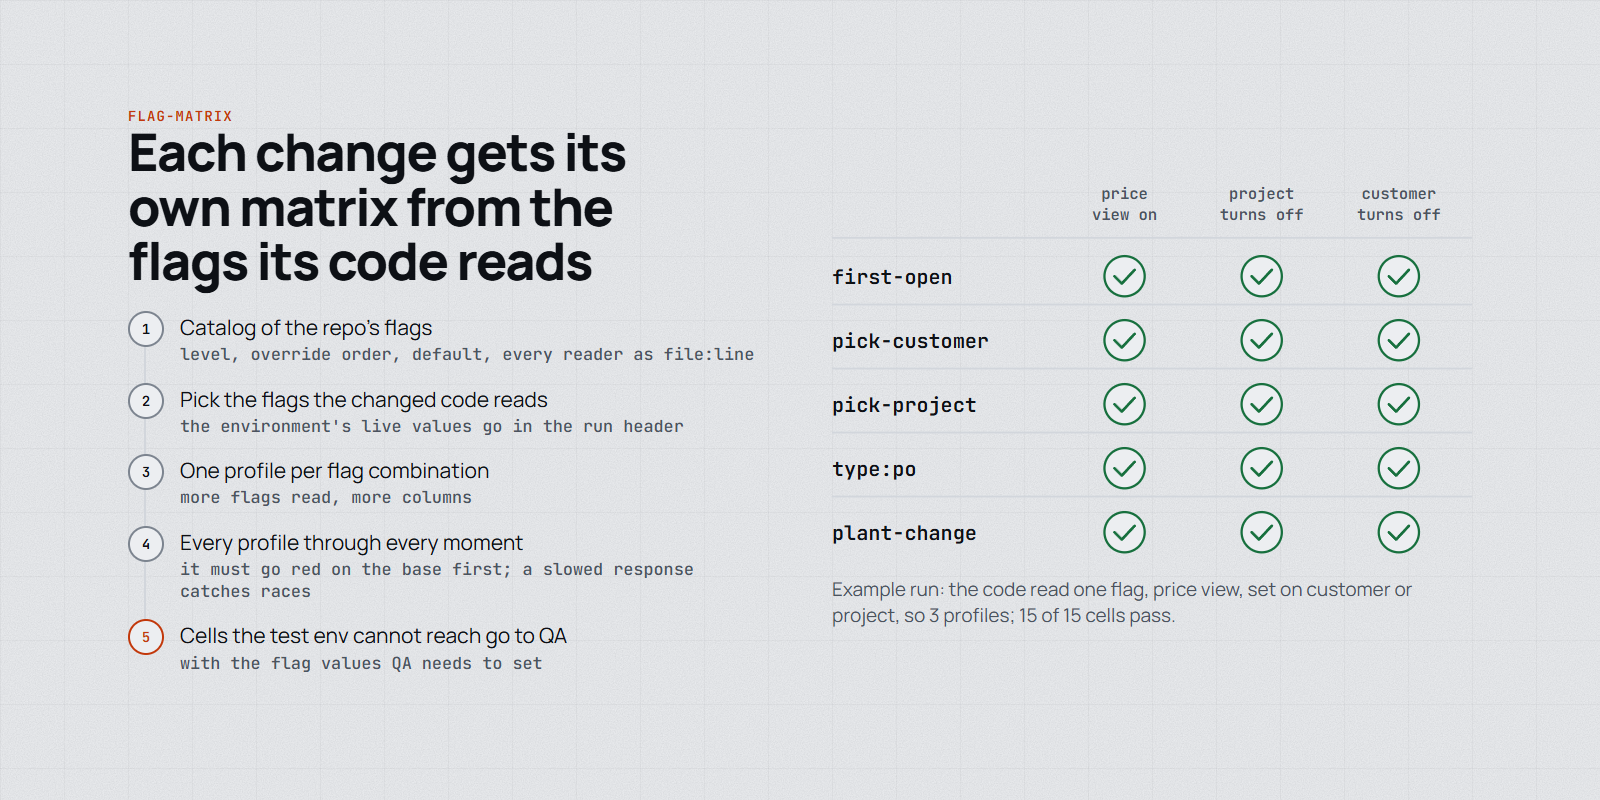
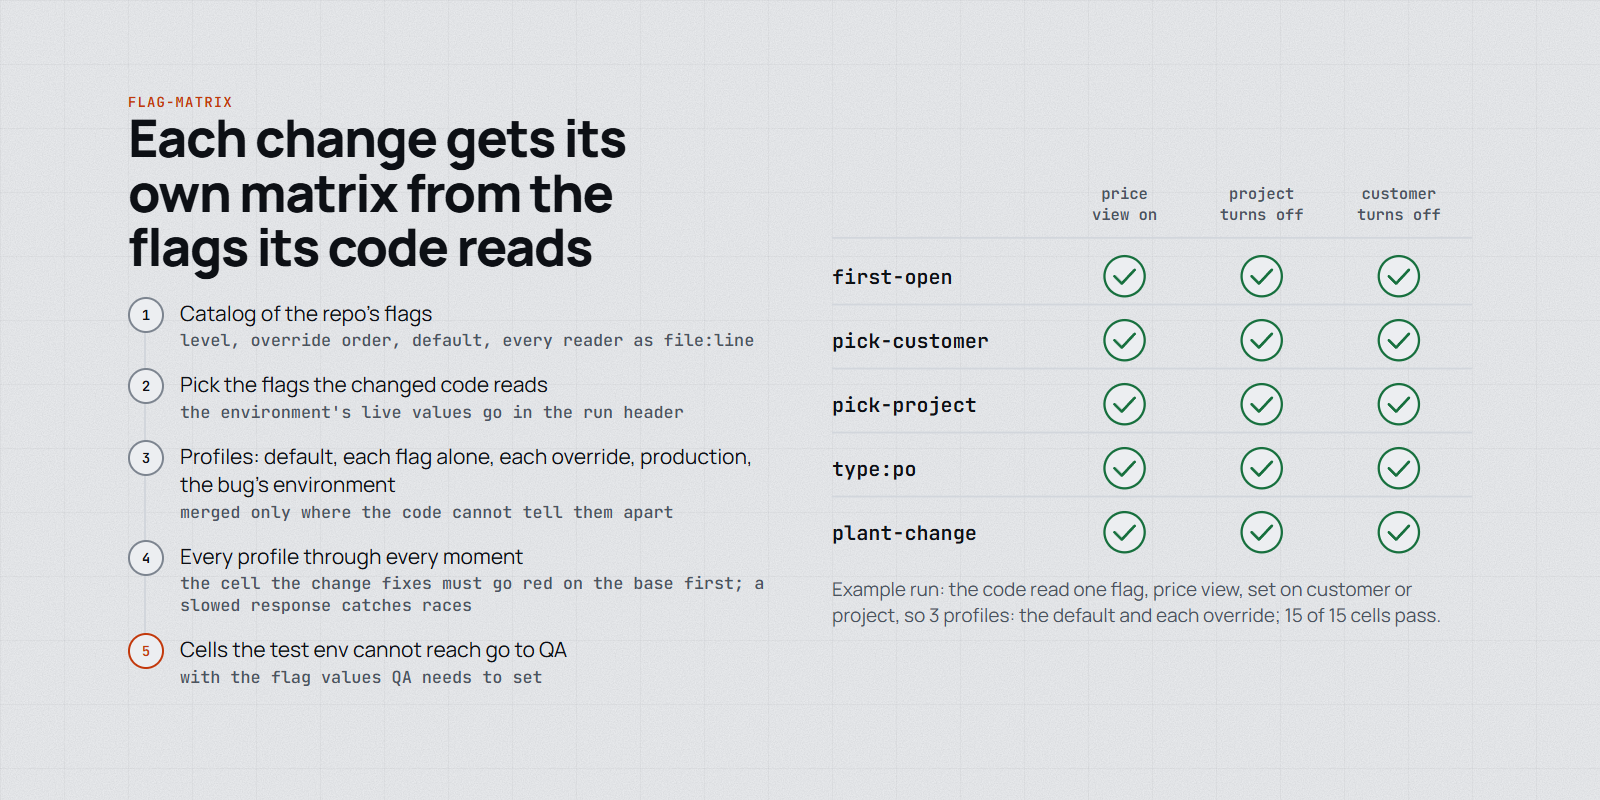
docs: align README figures with what the skills actually do
Cross-vendor review found the figures overstated the skills: the High
tier default, reviewer roster, fix-round scope and flag-matrix profiles.

Changed region(s): [[0.0625, 0.125, 0.4688, 0.875], [0.625, 0.75, 0.9062, 0.7812]]

diff --git a/docs/figures/readme.src.html b/docs/figures/readme.src.html
@@ -279,8 +279,8 @@
     <div class="split split--even split--review">
       <div>
         <p class="slide__label">risk-code-review</p>
-        <h2 class="slide__heading">Risk sets how deep the review goes, and another AI vendor does it</h2>
-        <p class="slide__body risk-line"><b>High risk</b> = the paths your repo marks high: saving data, money, config, permissions. The reviewer reads the full diff, runs the tests and answers, with file:line:</p>
+        <h2 class="slide__heading">Risk sets how deep the review goes and who reviews</h2>
+        <p class="slide__body risk-line"><b>High risk</b> = the paths your repo's tier list marks high; with no list, code that saves data, moves money, reads flags or tenant, customer or user settings, or checks permissions. The reviewer reads the full diff, runs the tests and answers, with file:line:</p>
         <ul class="points">
           <li><b>Where else</b> does the patched pattern live? Every caller and copy</li>
           <li><b>Odd API values:</b> 1900 dates, 0/0 coordinates, null for "none"</li>
@@ -292,9 +292,9 @@
         <div class="chat">
           <p class="chat__you"><b>review</b>PR #142 · High risk (order quantities)</p>
           <dl class="chat__kv">
-            <dt>writer</dt><dd>Claude or GPT</dd>
-            <dt>reviewer</dt><dd>the other one, never the writer's vendor</dd>
-            <dt>reads</dt><dd>the issue, the reporter's video, the final code</dd>
+            <dt>writer</dt><dd>Claude</dd>
+            <dt>reviewers</dt><dd>a fresh-context subagent, plus another vendor's model when one is installed</dd>
+            <dt>reads</dt><dd>the raw ticket, the reporter's screenshots, the final code</dd>
           </dl>
           <p class="chat__head">Findings · severity · confidence</p>
           <ol class="chat__q">
@@ -302,9 +302,9 @@
             <li><b>P1 60</b>test name should list the keys typed → PR body</li>
             <li><b>P2 35</b>helper name → PR body</li>
           </ol>
-          <p class="chat__head chat__head--go">Round 2: no P0 · ready for QA</p>
+          <p class="chat__head chat__head--go">Round 2: no P0 · a human reads the full diff</p>
         </div>
-        <figcaption>Shortened example. A P0 starts a fix round and the rest goes into the PR body; after 3 rounds without "no P0", change the approach, not the patch.</figcaption>
+        <figcaption>Shortened example on your own PR: a P0 that holds after checking starts a fix round and the rest goes into the PR body; after 3 rounds without "no P0", change the approach. On someone else's PR the review stays a draft and the code is not touched.</figcaption>
       </figure>
     </div>
   </section>
@@ -317,8 +317,8 @@
         <ol class="stepper">
           <li>Catalog of the repo's flags<small>level, override order, default, every reader as file:line</small></li>
           <li>Pick the flags the changed code reads<small>the environment's live values go in the run header</small></li>
-          <li>One profile per flag combination<small>more flags read, more columns</small></li>
-          <li>Every profile through every moment<small>it must go red on the base first; a slowed response catches races</small></li>
+          <li>Profiles: default, each flag alone, each override, production, the bug's environment<small>merged only where the code cannot tell them apart</small></li>
+          <li>Every profile through every moment<small>the cell the change fixes must go red on the base first; a slowed response catches races</small></li>
           <li>Cells the test env cannot reach go to QA<small>with the flag values QA needs to set</small></li>
         </ol>
       </div>
@@ -341,7 +341,7 @@
           <use href="#ok" y="210"/><use href="#ok" x="150" y="210"/><use href="#ok" x="300" y="210"/>
           <use href="#ok" y="280"/><use href="#ok" x="150" y="280"/><use href="#ok" x="300" y="280"/>
         </svg>
-        <figcaption>Example run: the code read one flag, price view, set on customer or project, so 3 profiles; 15 of 15 cells pass.</figcaption>
+        <figcaption>Example run: the code read one flag, price view, set on customer or project, so 3 profiles: the default and each override; 15 of 15 cells pass.</figcaption>
       </figure>
     </div>
   </section>

diff --git a/skills/risk-code-review/README.md b/skills/risk-code-review/README.md
@@ -5,7 +5,7 @@
 <p align="center">
   <picture>
     <source media="(prefers-color-scheme: dark)" srcset="assets/risk-code-review-dark.png">
-    <img alt="Risk sets how deep the review goes, and another AI vendor does it. High risk paths get questions answered with file:line: where else the pattern lives, odd API values, what a failed request rolls back to, and whether config flags are read. Example review of a high risk PR: writer Claude or GPT, reviewer the other vendor, findings P0 90 (fix round), P1 60 and P2 35 (PR body), round 2 has no P0 and is ready for QA." src="assets/risk-code-review-light.png" width="880">
+    <img alt="Risk sets how deep the review goes and who reviews. High risk is what the repo's tier list marks high, or by default code that saves data, moves money, reads flags or tenant, customer or user settings, or checks permissions; it gets questions answered with file:line: where else the pattern lives, odd API values, what a failed request rolls back to, and whether config flags are read. Example review of your own high risk PR: reviewers are a fresh-context subagent plus another vendor's model when installed, reading the raw ticket, screenshots and final code; findings P0 90 (fix round), P1 60 and P2 35 (PR body); round 2 has no P0 and a human reads the full diff." src="assets/risk-code-review-light.png" width="880">
   </picture>
 </p>
 

diff --git a/skills/flag-matrix/README.md b/skills/flag-matrix/README.md
@@ -5,7 +5,7 @@
 <p align="center">
   <picture>
     <source media="(prefers-color-scheme: dark)" srcset="assets/flag-matrix-dark.png">
-    <img alt="Each change gets its own matrix from the flags its code reads: catalog the repo's flags, pick the ones the changed code reads, build one profile per combination, run every profile through every moment (red on the base first), and send unreachable cells to QA. Example: one flag read on customer or project gives 3 profiles by 5 moments, 15 of 15 cells pass." src="assets/flag-matrix-light.png" width="880">
+    <img alt="Each change gets its own matrix from the flags its code reads: catalog the repo's flags, pick the ones the changed code reads, build profiles (default, each flag alone, each override, production, the bug's environment, merged only where the code cannot tell them apart), run every profile through every moment (the fixed cell red on the base first), and send unreachable cells to QA. Example: one flag read on customer or project gives 3 profiles (the default and each override) by 5 moments, 15 of 15 cells pass." src="assets/flag-matrix-light.png" width="880">
   </picture>
 </p>
 
